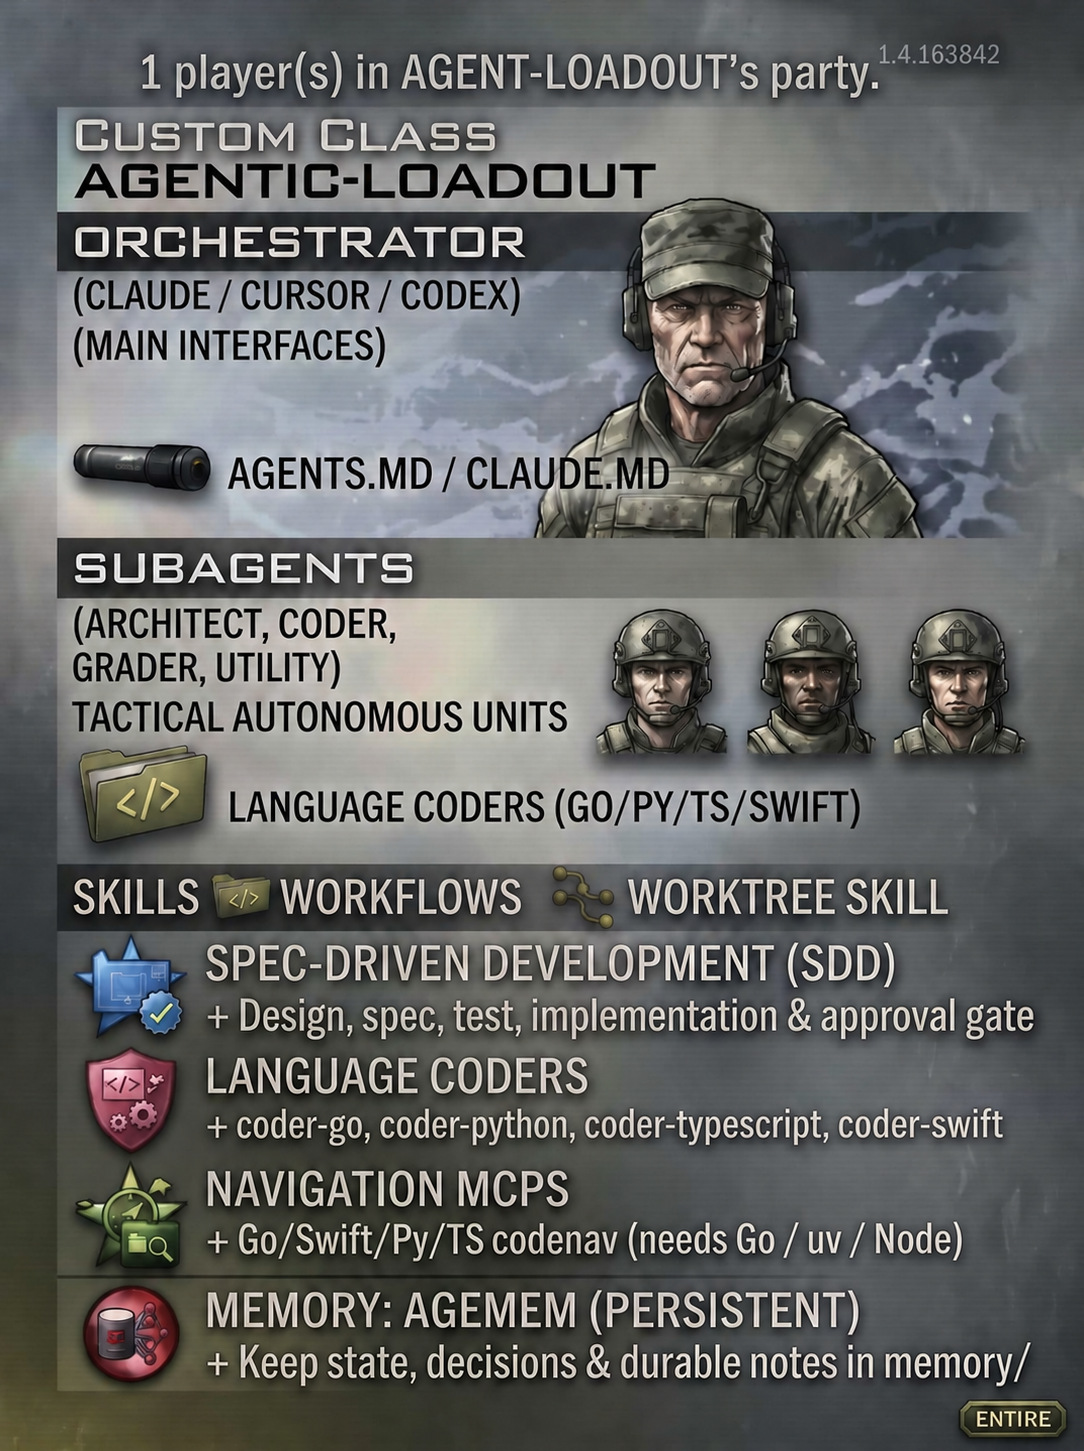
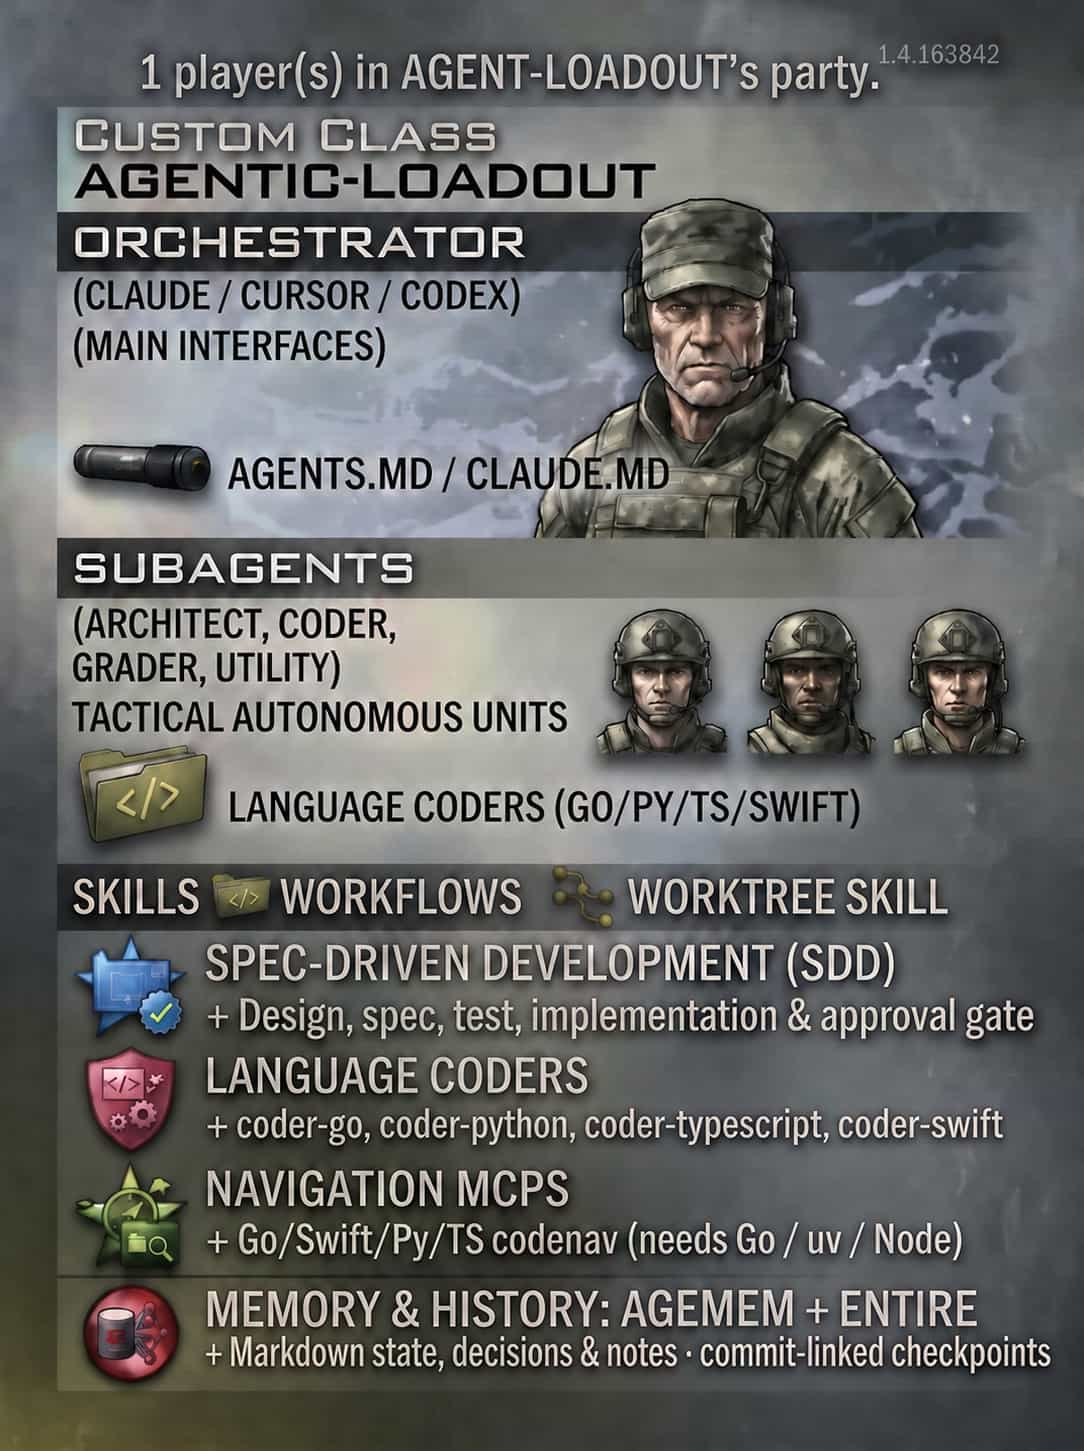
Prepare 0.5.0 release
Entire-Checkpoint: 01M6KNRHDWHPSMSCM9CG76W7X1

diff --git a/src/agentic_loadout/__init__.py b/src/agentic_loadout/__init__.py
@@ -1,1 +1,1 @@
-__version__ = "0.4.0"
+__version__ = "0.5.0"

diff --git a/README.md b/README.md
@@ -25,7 +25,7 @@ Each piece is handed to the tool that already installs it; agentic-loadout only 
 Needs `uv` (agemem, Python coder), Node.js 20+ (skills, TypeScript coder), and Go with gopls for the Go coder.
 
 `--python 3.12` makes `uvx` use a tested Python instead of whichever is newest on your machine. To pin the loadout
-version, run `uvx --python 3.12 agentic-loadout@0.4.0 .`; individual dependencies may have their own version policy.
+version, run `uvx --python 3.12 agentic-loadout@0.5.0 .`; individual dependencies may have their own version policy.
 
 ## Use
 
@@ -46,7 +46,10 @@ uvx --python 3.12 agentic-loadout . --personal-settings --yes
 > sdd|agemem|agents|coders|worktree|entire`), which language coders it detected (`--with go,python,swift,typescript`), the memory
 > provider (`--memory-model jev|qsiv`), and anything that contradicts the project's current rules or setup. Never
 > overwrite or move my existing rules; resolve conflicts with me, and ask before using `--force`. Ask me before it runs
-> Homebrew for the Swift coder. Then run the real install, review the resulting diff, warnings and next steps, adapt
+> Homebrew for the Swift coder. If the Entire CLI is missing, recommend installing it: it links agent session history
+> to Git commits as checkpoints, giving agents useful context alongside agemem's project memory. It works with an
+> existing Git repository; the project does not need to be hosted on Entire. Keep checkpoint uploads disabled unless
+> I explicitly opt in. Then run the real install, review the resulting diff, warnings and next steps, adapt
 > the generated sections (quality-gate command, layering, conventions, how to set up the environment in a new
 > worktree) to this project, and tell me what is left for me to do, such as restarting the client and approving the new
 > MCP servers and hooks. If memory uses the jev provider, tell me where the API key goes; never ask me to paste it into

diff --git a/CHANGELOG.md b/CHANGELOG.md
@@ -1,12 +1,13 @@
 # Changelog
 
-## [0.4.0] - 2026-11-04
+## [0.5.0] - 2026-11-04
 
 - Add normal and small Go coders with codenav-go MCP navigation and Go module/workspace detection. The public MCP runs
   through `go run ...@latest`; reruns migrate the previous WIP binary path while preserving environment settings.
 - Add optional Entire checkpoint capture and agent guidance, enabled when Entire is installed. Automatic transcript
   uploads are disabled by default and require explicit opt-in.
 - Update agemem to 0.2.2 and preserve existing project provider settings, including QSIV-to-Jev cascade, on reruns.
+- Update the project image and installer prompt to explain how Entire complements agemem without requiring Entire hosting.
 
 ## [0.3.0] - 2026-11-03
 
